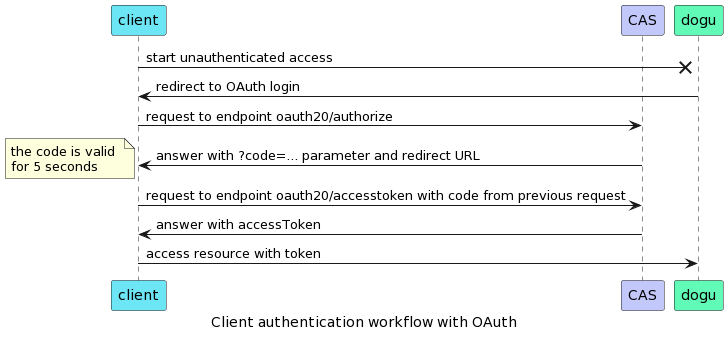
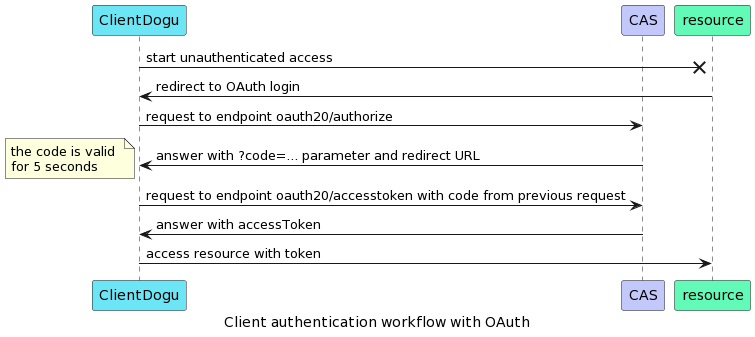
#36 further describe OIDC authentication in chapter 3, fix image for OAuth

diff --git a/docs/important/relevant_functionalities_de.md b/docs/important/relevant_functionalities_de.md
@@ -38,7 +38,7 @@ Weitere Informationen und eine genauere Abbildung vor, während und nach einer A
 
 ### OAuth-Protokoll
 
-CAS bietet OAuth/OIDC als Protokoll zur Authentifizierung samt SSO/SSL an. Im Folgenden wird die Spezifikation des OAuth Protokolls in CAS beschrieben.
+CAS bietet OAuth/OIDC als Protokoll zur Authentifizierung samt SSO/SSL an. Im Folgenden wird die Spezifikation des OAuth 2.0 Protokolls in CAS beschrieben.
 
 #### OAuth Service Account für Dogu erstellen
 
@@ -70,14 +70,14 @@ Die folgenden Schritte beschreiben einen erfolgreichen Ablauf der OAuth-Authenti
 3. Langzeittoken kann nun zu Authentifizierung gegen Ressourcen benutzen werden.
    Derzeit bietet CAS nur das Profil der User als Resource an: Siehe Abschnitt unten "OAuth-Userprofil"
 
-![Ablauf der Authentifizierung](../images/important/chapter3_auth_oauth_sequencediag.png)
+![Ablauf der Authentifizierung mit OAuth 2.0](../images/important/chapter3_auth_oauth_sequencediag.png)
 
 #### OAuth-Authorize-Endpunkt
 
 Dieser Endpunkt dient als initialer Start der OAuth-Authorisation.
 Der Authorisation-Endpunkt wird benutzt, um ein kurzlebiges Token vom CAS anzufordern.
 
-**URL** : `<fqdn>/api/authorize`
+**URL** : `<fqdn>/oauth2.0/authorize`
 
 **Method** : `GET`
 
@@ -116,7 +116,7 @@ Beispiel für `code`: `ST-1-wzG237MUOvfjfZrvRH5s-cas.ces.local`
 
 Dieser Endpunkt dient zum Austausch eines Kurzzeittokens (`code`) gegen ein Langzeittoken (`access_token`).
 
-**URL** : `<fqdn>/api/accessToken`
+**URL** : `<fqdn>/oauth2.0/accessToken`
 
 **Method** : `GET`
 
@@ -176,9 +176,9 @@ https://local.cloudogu.com/cas/oauth2.0/accessToken?grant_type=authorization_cod
 
 #### OAuth-Userprofil
 
-Dieser Endpunkt dient zur Abfrage des Userprofil vom eingeloggten User mithilfe eines Langzeittokens (`access_token`).
+Dieser Endpunkt dient zur Abfrage des Userprofils vom eingeloggten User mithilfe eines Langzeittokens (`access_token`).
 
-**URL** : `<fqdn>/api/profile`
+**URL** : `<fqdn>/oauth2.0/profile`
 
 **Method** : `GET`
 
@@ -234,6 +234,32 @@ authorization: Bearer TGT-1-m2gUNJwEqXyV7aAEXekihcVnFc5iI4mpfdZGOTSiiHzEbwr1cr-c
 
 ### OpenID Connect-Protokoll
 
+CAS bietet OAuth/OpenID Connect (OIDC) als Protokoll zur Authentifizierung samt SSO/SSL an. Im Folgenden wird die Spezifikation des OpenID Connect-Protokolls in CAS beschrieben. 
+
+**Vorsicht!**
+
+Dieser Abschnitt ist noch unzureichend geklärt, insbesondere hinsichtlich der Ähnlichkeit zur Authentifizierung durch OAuth 2.0. Pull-Requests durch die Community sind hier gern gesehen. :blue_heart:
+
+#### OIDC Service Account für Dogu erstellen
+
+Damit ein Dogu die OIDC-Endpunkte des CAS benutzen kann, muss sich dieser beim CAS als Client anmelden.
+Dafür kann die Aufforderung eines CAS-Service Account in der `dogu.json` des betreffenden Dogus hinterlegt werden.
+
+**Eintrag für einen OIDC Client:**
+``` json
+"ServiceAccounts": [
+    {
+        "Type": "cas",
+        "Params": [
+            "oidc"
+        ]
+    }
+]
+```
+
+Die Credentials des Service Accounts werden zufällig generiert (siehe [create-sa.sh](https://github.com/cloudogu/cas/blob/develop/resources/create-sa.sh)) und verschlüsselt in der Registry unter dem Pfad `/config/<dogu>/sa-cas/oidc` und `/config/<dogu>/sa-cas/oidc_client_secret` hinterlegt.
+
+Die Zugangsdaten setzen sich aus der `CLIENT_ID` und dem `CLIENT_SECRET` zusammen. Für den CAS wird das `CLIENT_SECRET` als Hash in der Cloudogu EcoSystem Registry unter dem Pfad `/config/cas/service_accounts/oidc/<CLIENT_ID>` abgelegt.
 
 ## Auf die Registry zugreifen
 
